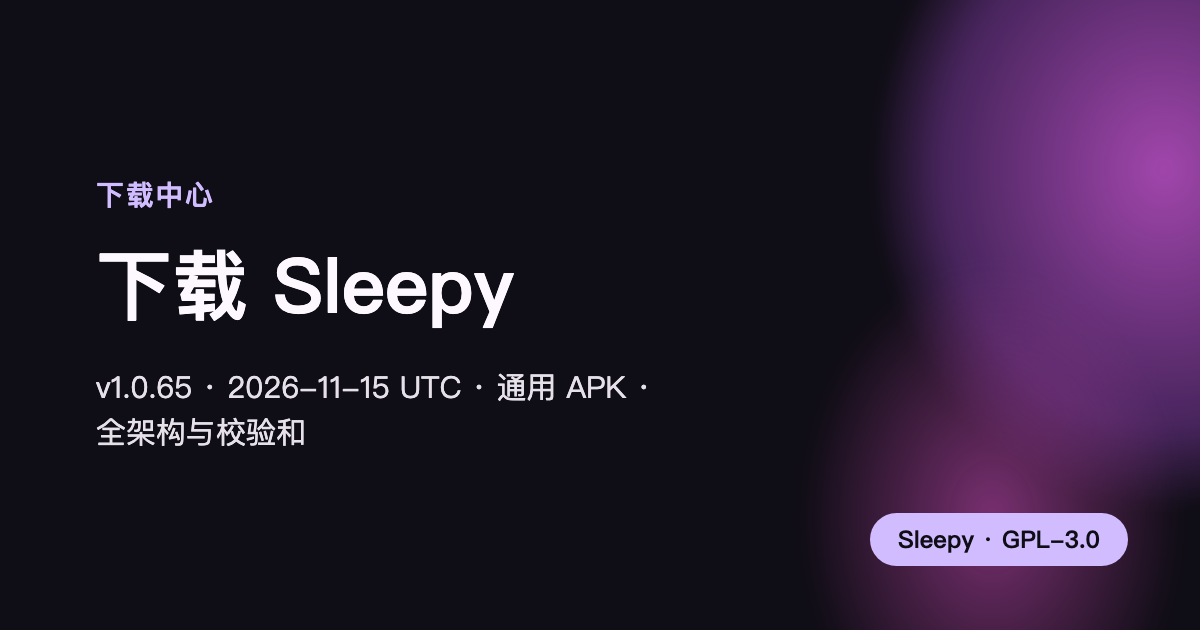
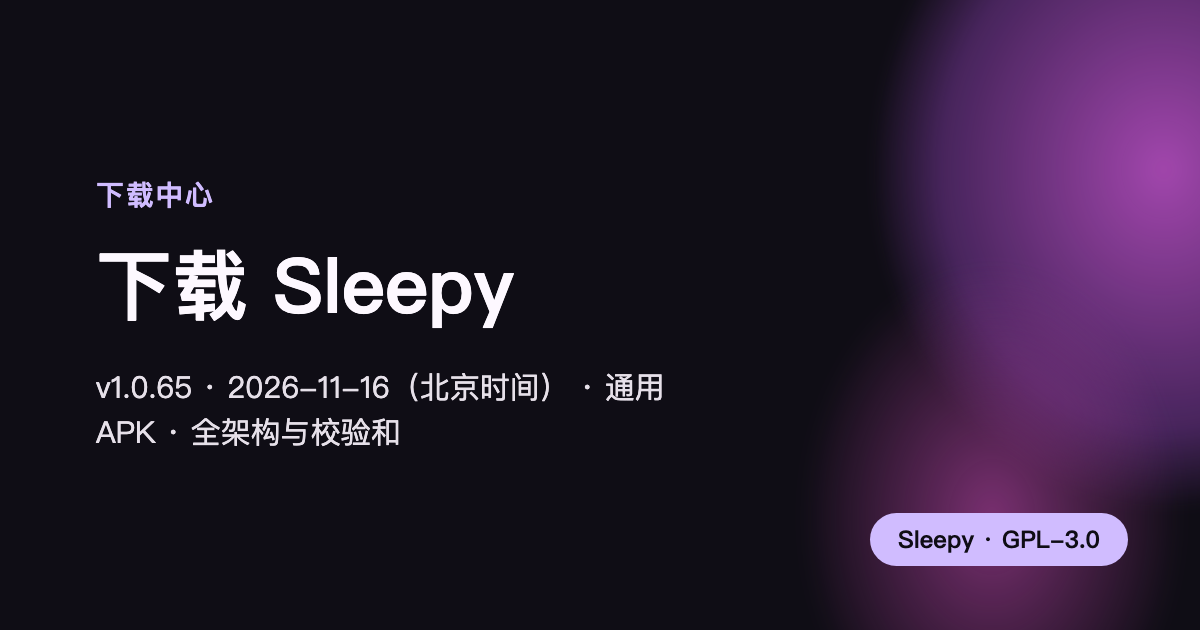
fix(release): 分离正文复核与发布快照并统一日期时区
自动刷新仅更新发布快照时间，正文与FAQ各自保留真实基线。中文页面、RSS和分享图使用北京时间，英文明确UTC。下载页补充旧4×2组件迁移提示，生成器交叉核对发布源码SHA。

verify: npm run data, npm run tokens, npm run check, npm run build passed; npm test — 623 passed; audit-seo — 20 pages, 384 links, 0 failures; git diff --check passed.

Changed region(s): [[0.0617, 0.6635, 0.3392, 0.7238], [0.3083, 0.573, 0.555, 0.6333]]

diff --git a/tests/machine-surface.test.ts b/tests/machine-surface.test.ts
@@ -1,6 +1,7 @@
 import { readFileSync, existsSync } from 'node:fs';
 import { describe, expect, it } from 'vitest';
 import { site, iosAppStoreUrl, iosTestFlightUrl } from '../src/i18n/ui';
+import { buildReleaseSurfaces } from '../scripts/build-release-surfaces.mjs';
 
 // GEO/分发面批次(2026-10-27):llms.txt 声称的机读源必须真实可达(线上实测
 // /faq.json 曾返回 404 假 200 —— 声称必有实物是信任基石,AI 抓取验证失败
@@ -33,11 +34,69 @@ describe('faq.json 机读路由(llms.txt 引址实物)', () => {
 });
 
 describe('released product machine surface', () => {
-  it('llms declares a released source and a separate documentation review date', () => {
+  it('llms distinguishes automated snapshot refreshes from reviewed content', () => {
     const product = JSON.parse(read('../src/data/product-release.json'));
+    const baseline = JSON.parse(read('../src/data/content-baseline.json'));
+    const faq = JSON.parse(read('../src/data/faq.json'));
     const txt = read('../public/llms.txt');
-    for (const value of [product.tag, product.commit, product.publishedAt, product.reviewedAt, product.sourceUrl]) expect(txt).toContain(value);
+    expect(product.snapshotRefreshedAt).toBeTruthy();
+    expect(product).not.toHaveProperty('reviewedAt');
+    for (const value of [product.tag, product.commit, product.publishedAt, product.snapshotRefreshedAt, product.sourceUrl]) expect(txt).toContain(value);
+    expect(txt).toContain('Snapshot refresh is automated and does not establish a new editorial review');
+    for (const platform of ['android', 'ios']) {
+      const review = baseline[platform];
+      expect(txt).toContain(`${review.version}, source commit ${review.commit}, reviewed ${review.reviewedAt}`);
+    }
+    expect(txt).toContain(`Bilingual FAQ: Android ${faq.reviewedVersion}, reviewed ${faq.updatedAt}`);
     expect(txt).not.toMatch(/SOP|Co-Authored-By|lingion@hrbeu|sleepy\.is-my\.app.*password/i);
+  });
+  it('a later automated release cannot advance editorial feature or FAQ baselines', () => {
+    const release = JSON.parse(read('../src/data/release.json'));
+    const catalog = JSON.parse(read('../src/data/schools.snapshot.json'));
+    const baseline = JSON.parse(read('../src/data/content-baseline.json'));
+    const faq = { ...JSON.parse(read('../src/data/faq.json')), reviewedVersion: 'v1.0.63', updatedAt: '2026-11-01' };
+    const future = { tag: 'v9.9.9', commit: 'a'.repeat(40), date: '2099-01-02T00:00:00Z', refresh: '2099-01-03' };
+    expect(faq.reviewedVersion).not.toBe(baseline.android.version);
+    expect(faq.updatedAt).not.toBe(baseline.android.reviewedAt);
+    const { llms } = buildReleaseSurfaces({
+      release: { ...release, tag: future.tag, sourceSha: future.commit, date: future.date },
+      product: { tag: future.tag, commit: future.commit, snapshotRefreshedAt: future.refresh, sourceUrl: `https://github.com/lingion/sleepy/tree/${future.commit}` },
+      catalog: { ...catalog, ref: future.tag, sourceSha: future.commit },
+      baseline,
+      faq,
+    });
+    expect(llms).toContain(`Release snapshot: Android ${future.tag}`);
+    expect(llms).toContain(`Snapshot refreshed ${future.refresh}`);
+    expect(llms).toContain(`The following notes describe Android ${baseline.android.version}, reviewed ${baseline.android.reviewedAt}`);
+    expect(llms).toContain(`Bilingual FAQ: Android ${faq.reviewedVersion}, reviewed ${faq.updatedAt}`);
+    expect(llms).not.toContain(`feature descriptions: ${future.tag}`);
+    expect(llms).not.toContain(`Bilingual FAQ: Android ${future.tag}`);
+    expect(llms).not.toContain(`Bilingual FAQ: Android ${baseline.android.version}, reviewed ${baseline.android.reviewedAt}`);
+  });
+  it('refuses mixed release sources and missing editorial baselines', () => {
+    const release = JSON.parse(read('../src/data/release.json'));
+    const product = JSON.parse(read('../src/data/product-release.json'));
+    const catalog = JSON.parse(read('../src/data/schools.snapshot.json'));
+    const baseline = JSON.parse(read('../src/data/content-baseline.json'));
+    const faq = JSON.parse(read('../src/data/faq.json'));
+    const input = { release, product: { ...product, snapshotRefreshedAt: '2026-11-16' }, catalog, baseline, faq };
+    expect(() => buildReleaseSurfaces({ ...input, catalog: { ...catalog, sourceSha: 'b'.repeat(40) } })).toThrow('Mixed release surfaces');
+    expect(() => buildReleaseSurfaces({ ...input, baseline: { android: baseline.android } })).toThrow('Missing ios editorial baseline');
+    expect(() => buildReleaseSurfaces({ ...input, faq: { ...faq, reviewedVersion: undefined } })).toThrow('Missing FAQ editorial baseline');
+    expect(() => buildReleaseSurfaces({ ...input, product: { ...input.product, snapshotRefreshedAt: undefined } })).toThrow('Missing release snapshot refresh date');
+  });
+  it('machine content preserves reviewed feature limits and widget migration steps', () => {
+    for (const path of ['../public/llms.txt', '../dist/client/llms.txt']) {
+      const txt = read(path);
+      expect(txt).toContain('does not automatically upload screenshots or call an AI service');
+      expect(txt).toContain('manual backup and restore over HTTPS');
+      expect(txt).toContain('unencrypted ZIP files');
+      expect(txt).toContain('100 MiB');
+      expect(txt).toContain('15 Manifest-registered configuration entries');
+      expect(txt).toContain('old 4×2 receiver was replaced');
+      expect(txt).toContain('Updating or appending an existing timetable does not replace date rules');
+      expect(txt).toContain('restored exported backups do not gain update eligibility');
+    }
   });
   it('machine documents preserve independent iOS channels and scope store availability', () => {
     for (const path of ['../public/llms.txt', '../dist/client/llms.txt']) {
@@ -48,7 +107,13 @@ describe('released product machine surface', () => {
       expect(txt).toContain('check whether TestFlight has open places');
     }
     const faq = JSON.parse(read('../dist/client/faq.json'));
-    expect(faq.updatedAt).toBe('2026-11-10');
+    const editorialSource = read('../fixtures/FAQ.md');
+    const reviewedAt = editorialSource.match(/内容核对日期[：:]\s*(\d{4}-\d{2}-\d{2})/)?.[1];
+    const reviewedVersion = editorialSource.match(/产品基线为 Android (v[\d.]+)/)?.[1];
+    expect(reviewedAt).toBeTruthy();
+    expect(reviewedVersion).toBeTruthy();
+    expect(faq.updatedAt).toBe(reviewedAt);
+    expect(faq.reviewedVersion).toBe(reviewedVersion);
     const platform = faq.sections.flatMap((section: any) => section.items).find((item: any) => item.id === 'sec-2-q-4');
     expect(JSON.stringify(platform.a)).toContain(iosAppStoreUrl);
     expect(JSON.stringify(platform.a)).toContain(iosTestFlightUrl);

diff --git a/tests/page.download.test.ts b/tests/page.download.test.ts
@@ -8,6 +8,7 @@ import { site } from '../src/i18n/ui';
 import release from '../src/data/release.json';
 import { zh } from '../src/i18n/zh';
 import { en } from '../src/i18n/en';
+import { releaseDateLabel } from '../src/lib/release-date.mjs';
 
 const load = (p: string): JSDOM => {
   try {
@@ -35,8 +36,8 @@ describe('下载资产与外链(spec §2.4)', () => {
     expect(zhHtml).toContain(zh.download.minSdk);
   });
   it('版本行渲染 = tag · minSdk · 日期 发布(tnum 行)', () => {
-    expect(zhHtml).toContain(`${release.tag} · ${zh.download.minSdk} · ${release.date.slice(0, 10)} 发布`);
-    expect(enHtml).toContain(`${release.tag} · ${en.download.minSdk} · released ${release.date.slice(0, 10)}`);
+    expect(zhHtml).toContain(`${release.tag} · ${zh.download.minSdk} · ${releaseDateLabel(release.date, 'zh')} 发布`);
+    expect(enHtml).toContain(`${release.tag} · ${en.download.minSdk} · released ${releaseDateLabel(release.date, 'en')}`);
   });
   it('online trial explains platform capability boundaries', () => {
     expect(zhHtml).toContain(zh.download.trial);
@@ -136,5 +137,15 @@ describe('页面骨架与双语镜像', () => {
     expect(enDoc.querySelector('main h1')?.textContent).toBe(en.downloadPage.heading);
     expect(enDoc.querySelector('fieldset legend')?.textContent).toBe('Download source');
     expect(enDoc.querySelector<HTMLInputElement>('input:checked')?.value).toBe('github');
+  });
+});
+
+// Published timestamps after 16:00 UTC belong to the following date in Beijing.
+describe('localized release dates', () => {
+  it('keeps the release instant while making the displayed time zone explicit', () => {
+    expect(releaseDateLabel('2026-11-15T18:56:37Z', 'zh')).toBe('2026-11-16（北京时间）');
+    expect(releaseDateLabel('2026-11-15T18:56:37Z', 'en')).toBe('2026-11-15 UTC');
+    expect(releaseDateLabel('2026-12-31T16:00:00Z', 'zh')).toBe('2027-01-01（北京时间）');
+    expect(releaseDateLabel('2026-12-31T15:59:59Z', 'zh')).toBe('2026-12-31（北京时间）');
   });
 });

diff --git a/src/pages/rss.xml.js b/src/pages/rss.xml.js
@@ -5,6 +5,7 @@ import rss from '@astrojs/rss';
 import { site } from '../i18n/ui';
 import release from '../data/release.json';
 import { rowCount } from '../lib/schools-view';
+import { releaseDateLabel } from '../lib/release-date.mjs';
 
 export async function GET(context) {
   const universal = release.assets.find((a) => a.name.includes('universal'));
@@ -20,9 +21,9 @@ export async function GET(context) {
         pubDate: new Date(release.date),
         link: `${site}/releases/`,
         description: [
-          `Sleepy ${release.tag} · ${new Date(release.date).toISOString().slice(0, 10)} 发布。`,
+          `Sleepy ${release.tag} · ${releaseDateLabel(release.date, 'zh')} 发布。`,
           `通用 APK:${universal?.name ?? 'app-universal-release.apk'}。`,
-          `校验和与全部架构见 sha256sums。${rowCount} 条教务直连,课表数据仅存本机。`,
+          `校验和与全部架构见 sha256sums。${rowCount} 条学校目录记录，按状态核对适配；课表默认保存在本机，备份与分享由你主动发起。`,
         ].join(' '),
       },
     ],

diff --git a/tests/sitemap-lastmod.test.ts b/tests/sitemap-lastmod.test.ts
@@ -50,8 +50,13 @@ describe('sitemap reflects release dates and genuine content reviews', () => {
       expect(entry(path)).toBeNull();
     });
   }
-  it('preserves the older feature FAQ review baseline separately', () => {
-    expect(faq.updatedAt).toBe('2026-11-10');
-    expect(faq.reviewedVersion).toBe('v1.0.64');
+  it('preserves the reviewed feature FAQ baseline separately from automated releases', () => {
+    const editorialSource = readFileSync(new URL('../fixtures/FAQ.md', import.meta.url), 'utf8');
+    const reviewedAt = editorialSource.match(/内容核对日期[：:]\s*(\d{4}-\d{2}-\d{2})/)?.[1];
+    const reviewedVersion = editorialSource.match(/产品基线为 Android (v[\d.]+)/)?.[1];
+    expect(reviewedAt).toBeTruthy();
+    expect(reviewedVersion).toBeTruthy();
+    expect(faq.updatedAt).toBe(reviewedAt);
+    expect(faq.reviewedVersion).toBe(reviewedVersion);
   });
 });
